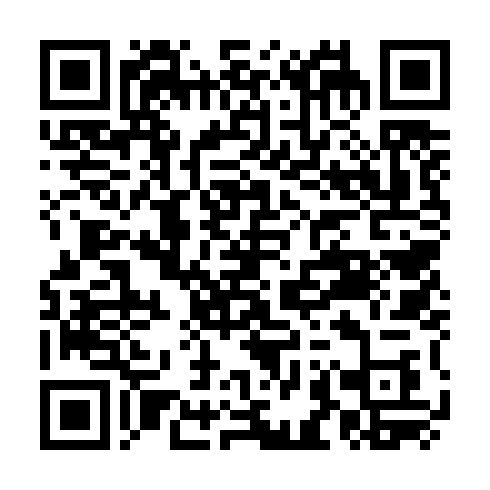
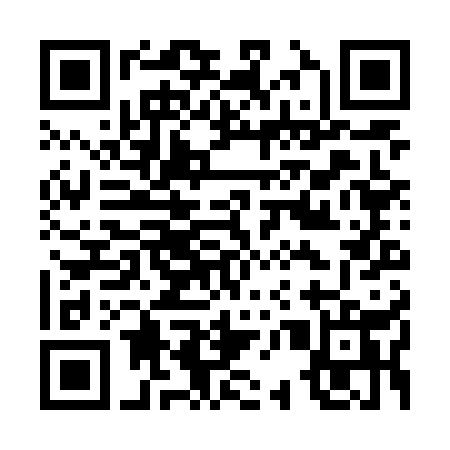
Se arregló bug con el QR de información de contacto.

diff --git a/main.py b/main.py
@@ -69,8 +69,8 @@ while True:
                     print('| (0) Regresar.                          |')
                     print('| (1) Nombre(s).                         |')
                     print('| (2) Apellidos.                         |')
-                    print('| (3) Teléfono.                          |')
-                    print('| (4) Email.                             |')
+                    print('| (3) Cédula de Identidad.               |')
+                    print('| (4) Teléfono.                          |')
                     print('| (5) Generar QR.                        |')
                     print('|----------------------------------------|')
                     print('******************************************')
@@ -101,20 +101,20 @@ while True:
                     elif(opcion_contacto == 3):
                         print('\n******************************************')
                         print('|----------------------------------------|')
+                        print('|Digite su cédula de identidad.          |')
+                        print('|----------------------------------------|')
+                        print('******************************************')
+
+                        informacion_contacto['Cedula'] = str(input('» '))
+
+                    elif(opcion_contacto == 4):
+                        print('\n******************************************')
+                        print('|----------------------------------------|')
                         print('|Digite su número de teléfono.           |')
                         print('|----------------------------------------|')
                         print('******************************************')
 
                         informacion_contacto['Telefono'] = str(input('» '))
-
-                    elif(opcion_contacto == 4):
-                        print('\n******************************************')
-                        print('|----------------------------------------|')
-                        print('|Digite su email a continuación.         |')
-                        print('|----------------------------------------|')
-                        print('******************************************')
-
-                        informacion_contacto['Email'] = str(input('» '))
 
                     elif(opcion_contacto == 5):
                         print('\n******************************************')
@@ -126,9 +126,11 @@ while True:
                             informacion_contacto, sort_keys=False,
                             default_flow_style=False
                             )
+                        # Para guardar la imagen.
                         img = qrcode.make(qr_informacion_contacto)
                         type(img)
                         img.save('informacion_contacto.jpg', 'JPEG')
+                        # Para mostrar la imagen.
                         img_saved = Image.open('informacion_contacto.jpg')
                         img_saved.show()
 
@@ -172,9 +174,11 @@ while True:
                         print('|        Generando código QR ...         |')
                         print('|----------------------------------------|')
                         print('******************************************')
+                        # Para guardar la imagen.
                         img = qrcode.make(texto_simple)
                         type(img)
                         img.save('texto_simple.jpg', 'JPEG')
+                        # Para mostrar la imagen.
                         img_saved = Image.open('texto_simple.jpg')
                         img_saved.show()
 
@@ -286,9 +290,11 @@ while True:
                             informacion_vacuna, sort_keys=False,
                             default_flow_style=False
                             )
+                        # Para crear la imagen.
                         img = qrcode.make(qr_informacion_vacuna)
                         type(img)
                         img.save('informacion_vacuna.jpg', 'JPEG')
+                        # Para mostrar la imagen.
                         img_saved = Image.open('informacion_vacuna.jpg')
                         img_saved.show()
 
@@ -299,9 +305,11 @@ while True:
                         sleep(2)
 
     elif(accion_principal == 2):
-        """
-        ---> Esta es la sección de trabajo para @Mario Benavides
-        """
+
+        d = cv2.QRCodeDetector()
+        val, _, _ = d.detectAndDecode(cv2.imread("informacion_contacto.jpg"))
+        print("El QR decodificado es:")
+        print(val)
 
     else:
         print('\n!!! Ingrese una opción válida (╯°□°）╯︵ ┻━┻ !!!')
